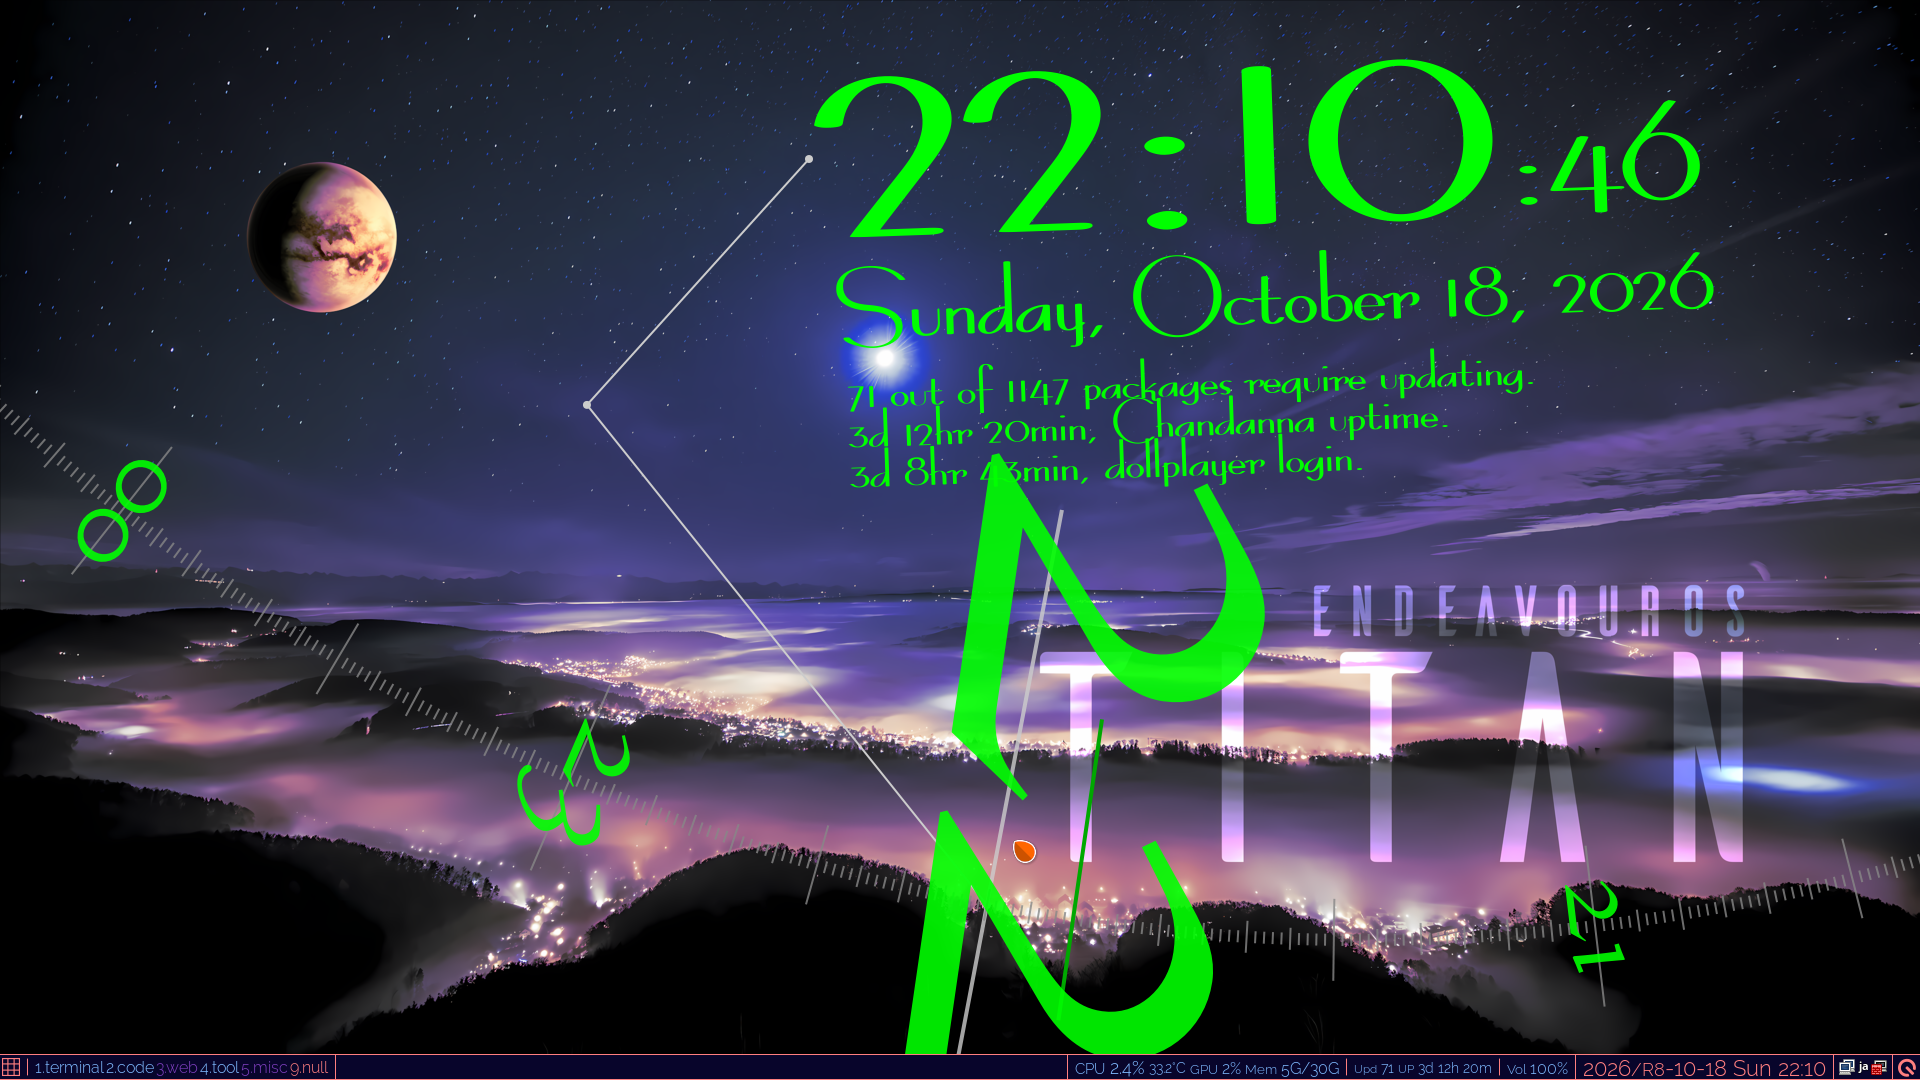
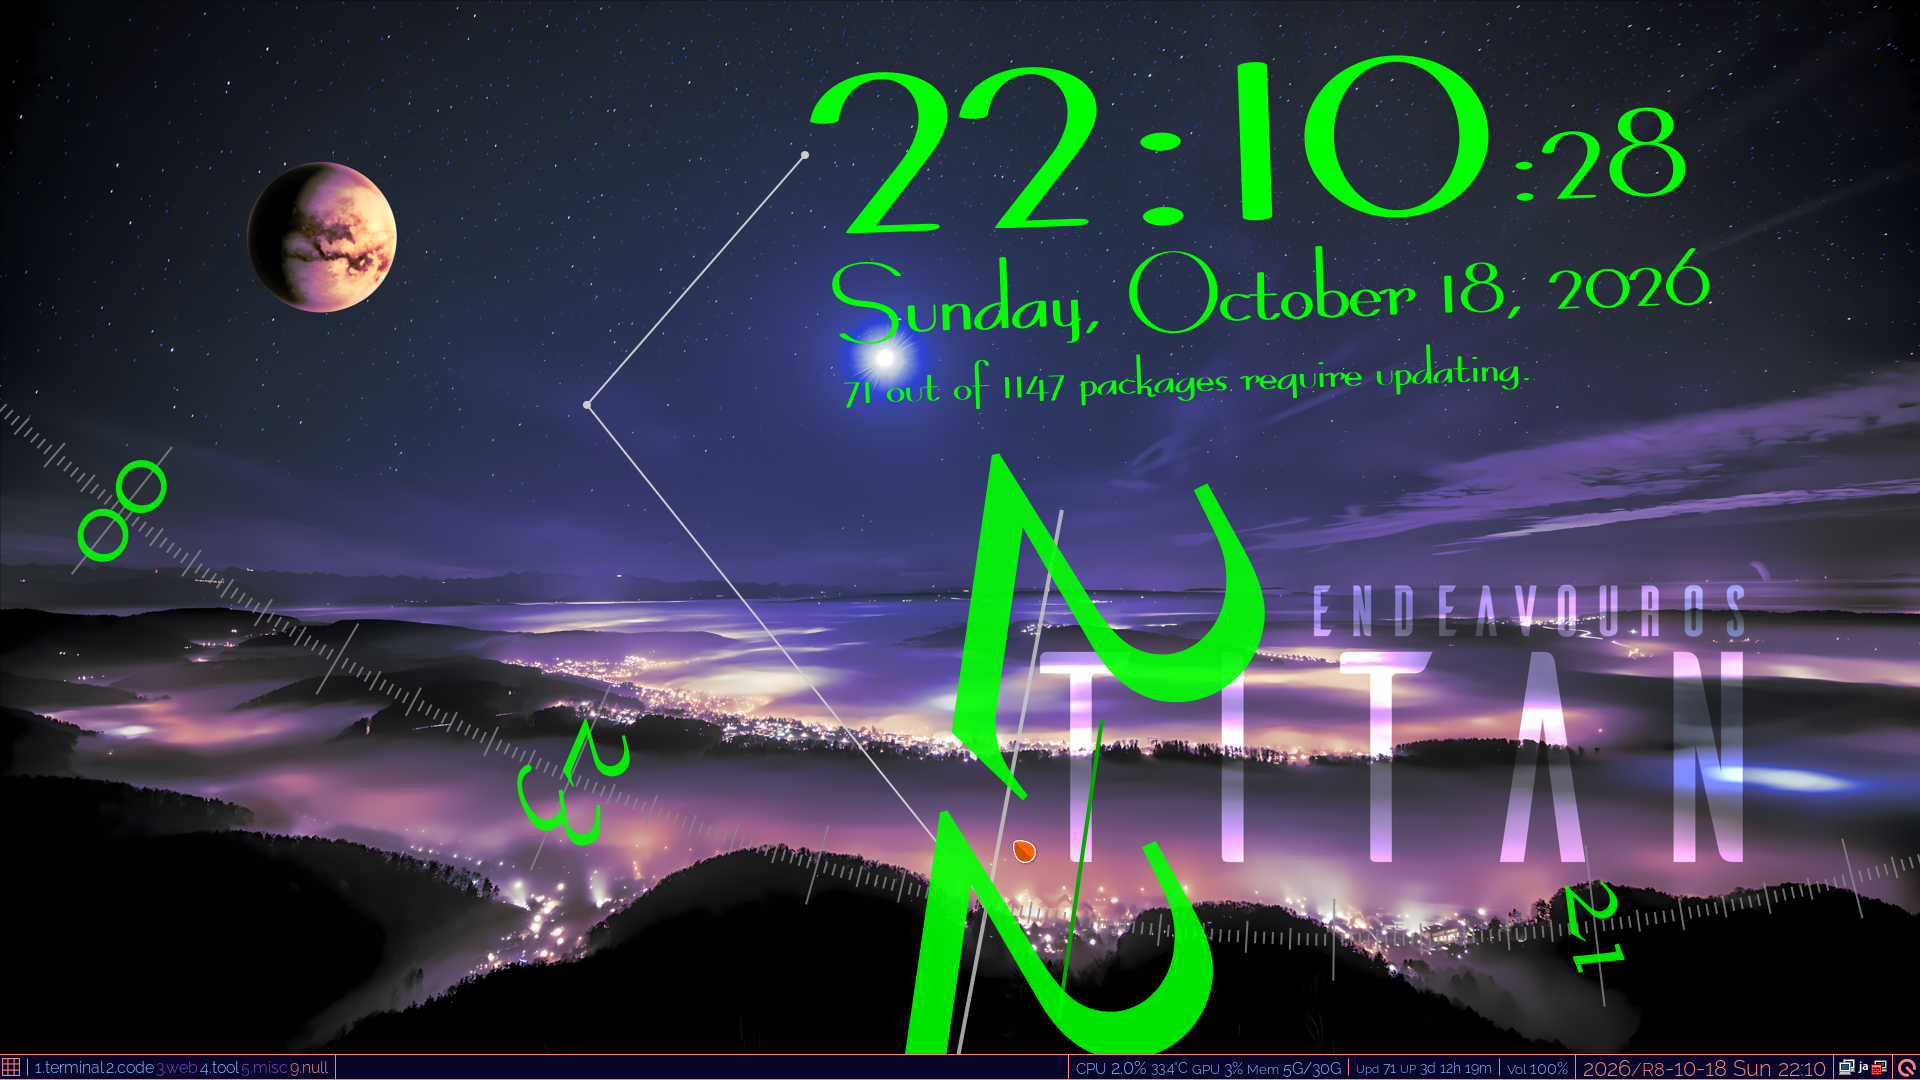
**Provisional commit**. Includes only the renaming of image files and the addition of `[!NOTE]` to README.md.

diff --git a/README.md b/README.md
@@ -1,5 +1,10 @@
 # Conky theme, "Time_Clock_of_the_Heart"
 
+
+> [!NOTE]
+> There may be slight differences between the images shown here and the results produced by the latest source code.
+
+
 Conky theme, a 24-hour clock that uses the entire display. I also use Fish shell scripts and Python scripts that I have created.
 
 <img src="./screenshot..main..01.png" width=500 />
@@ -49,7 +54,7 @@ To enable this, you must set the flag for `Info.Text.Other.Other_display_flag` a
 
 See the 3rd row in the figure below.
 
-<img src="./screenshot..main..02.png" width=400 />
+<img src="./screenshot..main..03.png" width=400 />
 
 In my case, since I am using *EndeavourOS*, this applies to *Arch Linux*.  
 See [./conky_sub_parse.lua](./conky_sub_parse.lua), `Packages.checkupdates` and `Packages.checkupdates.packman_Q`.
@@ -59,7 +64,7 @@ See [./conky_sub_parse.lua](./conky_sub_parse.lua), `Packages.checkupdates` and 
 
 See the 4th and 5th rows in the figure below.
 
-<img src="./screenshot..main..03.png" width=400 />
+<img src="./screenshot..main..04.png" width=400 />
 
 **These are entirely dependent on my environment**, I would like to standardize the display format for normalized dates.
 
